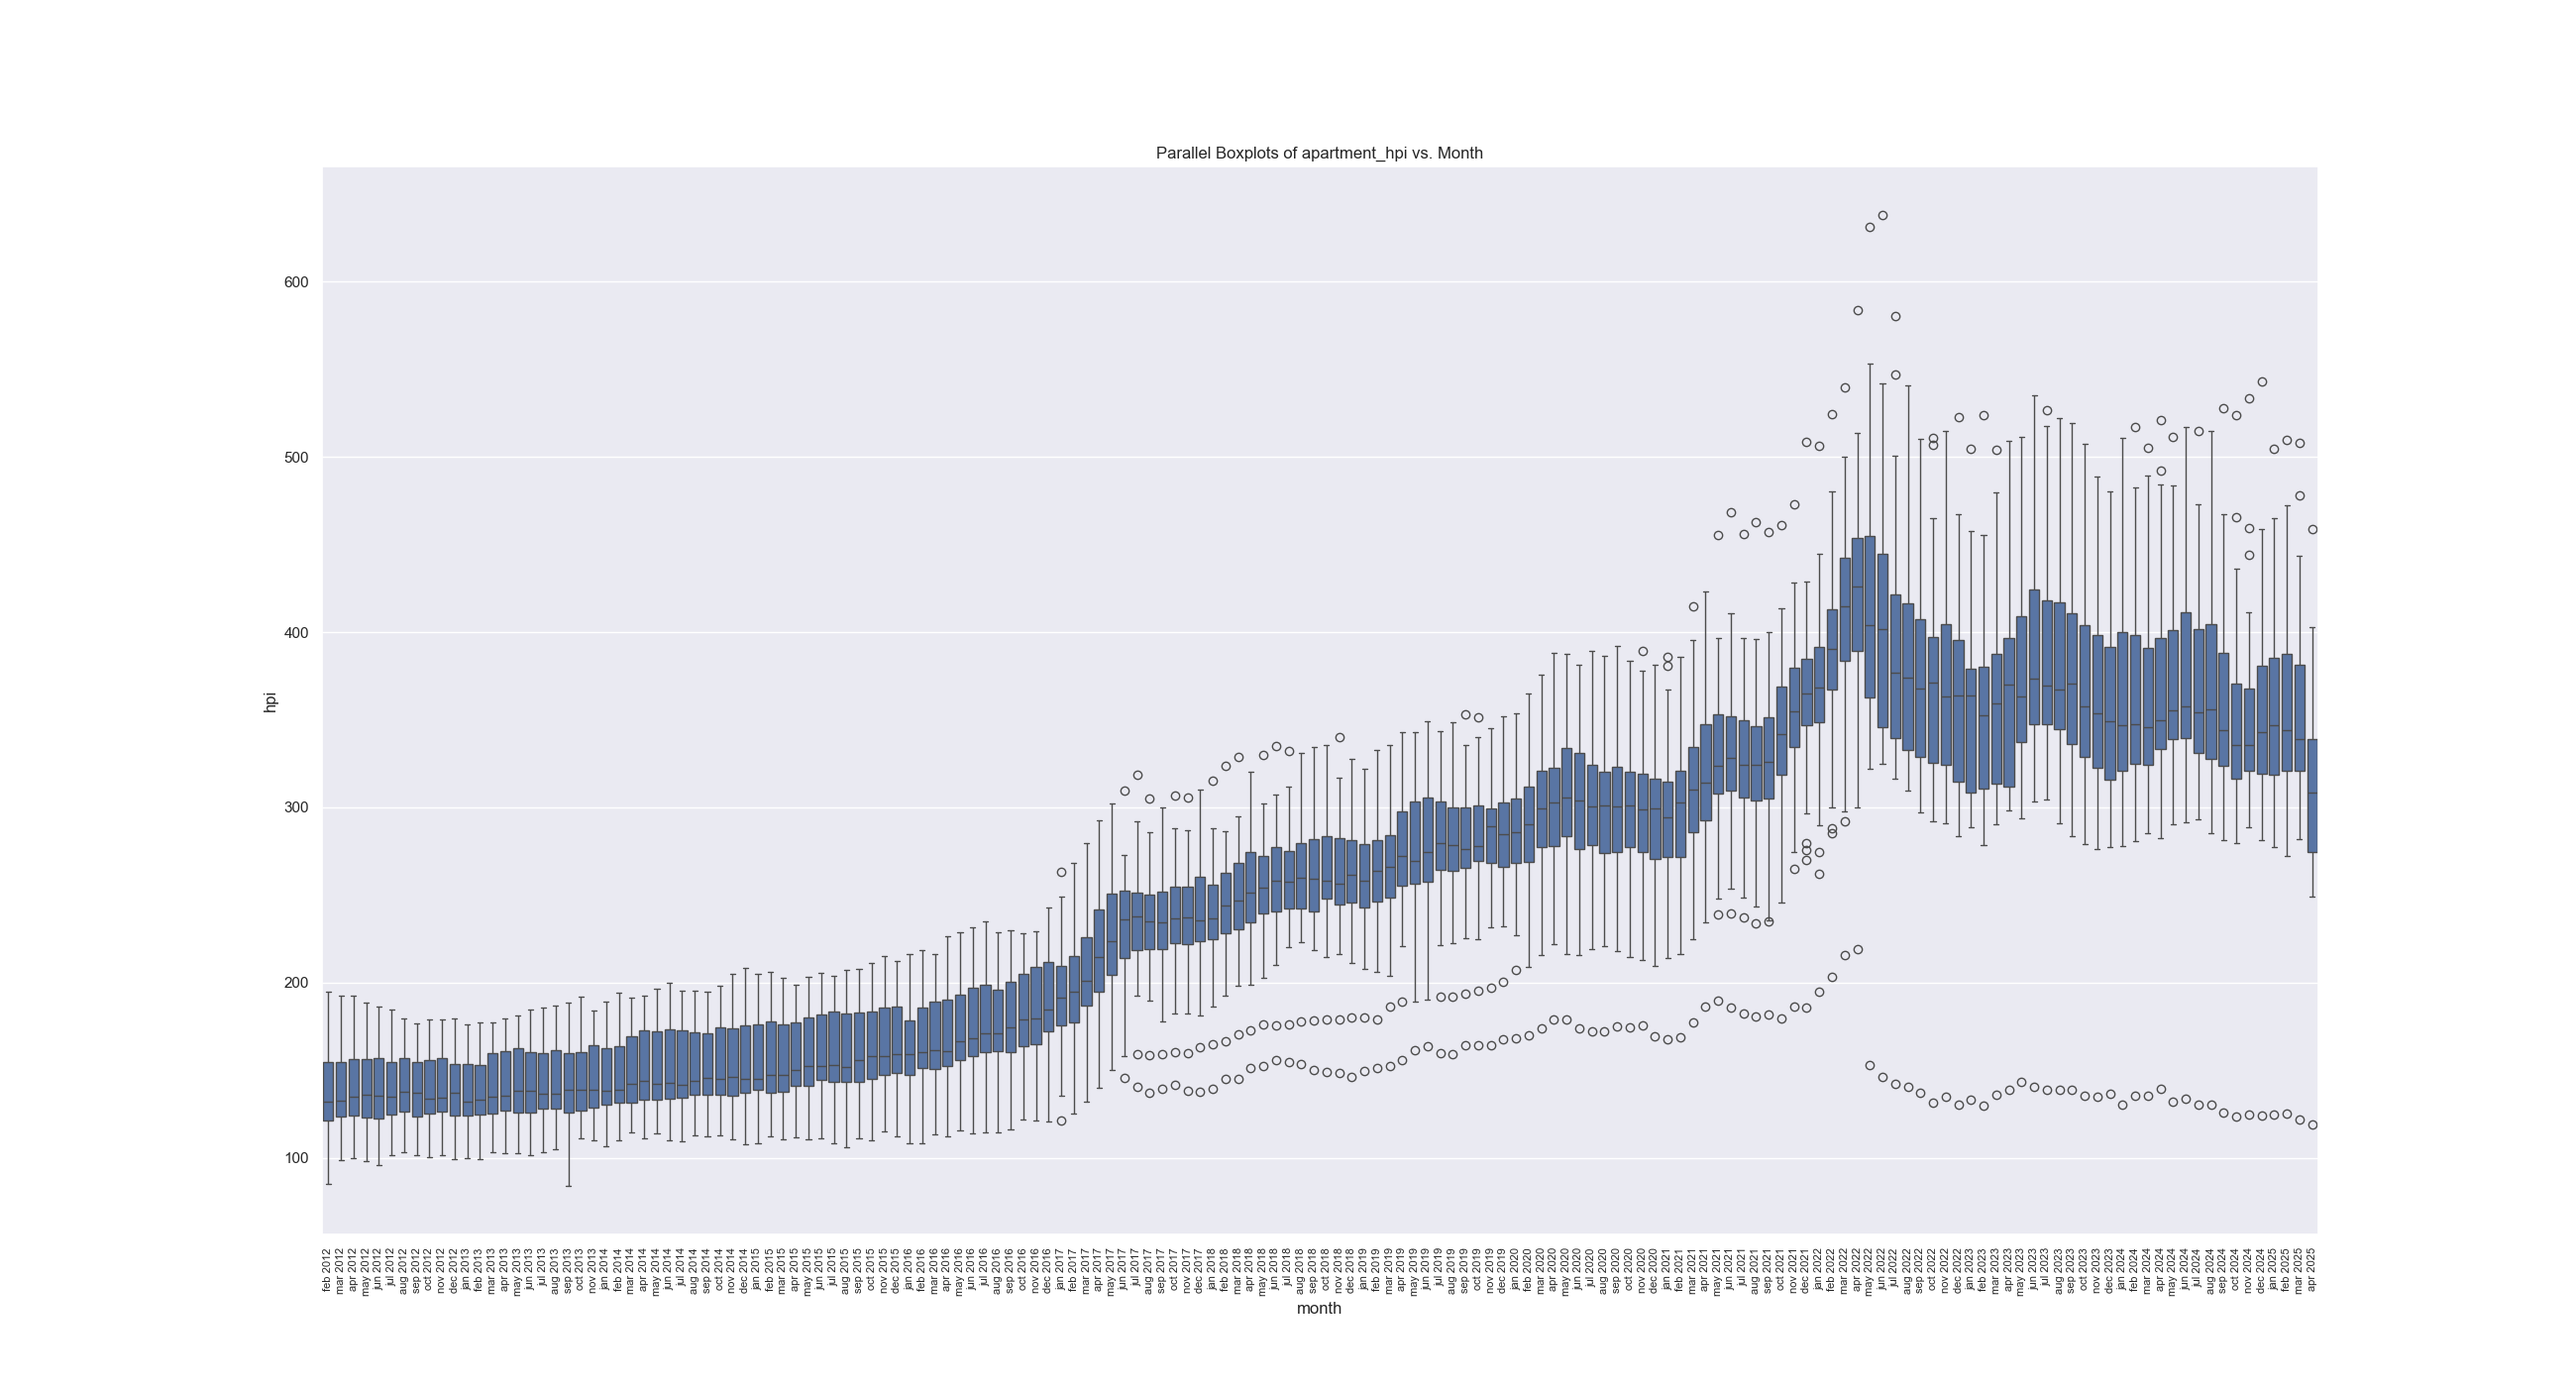
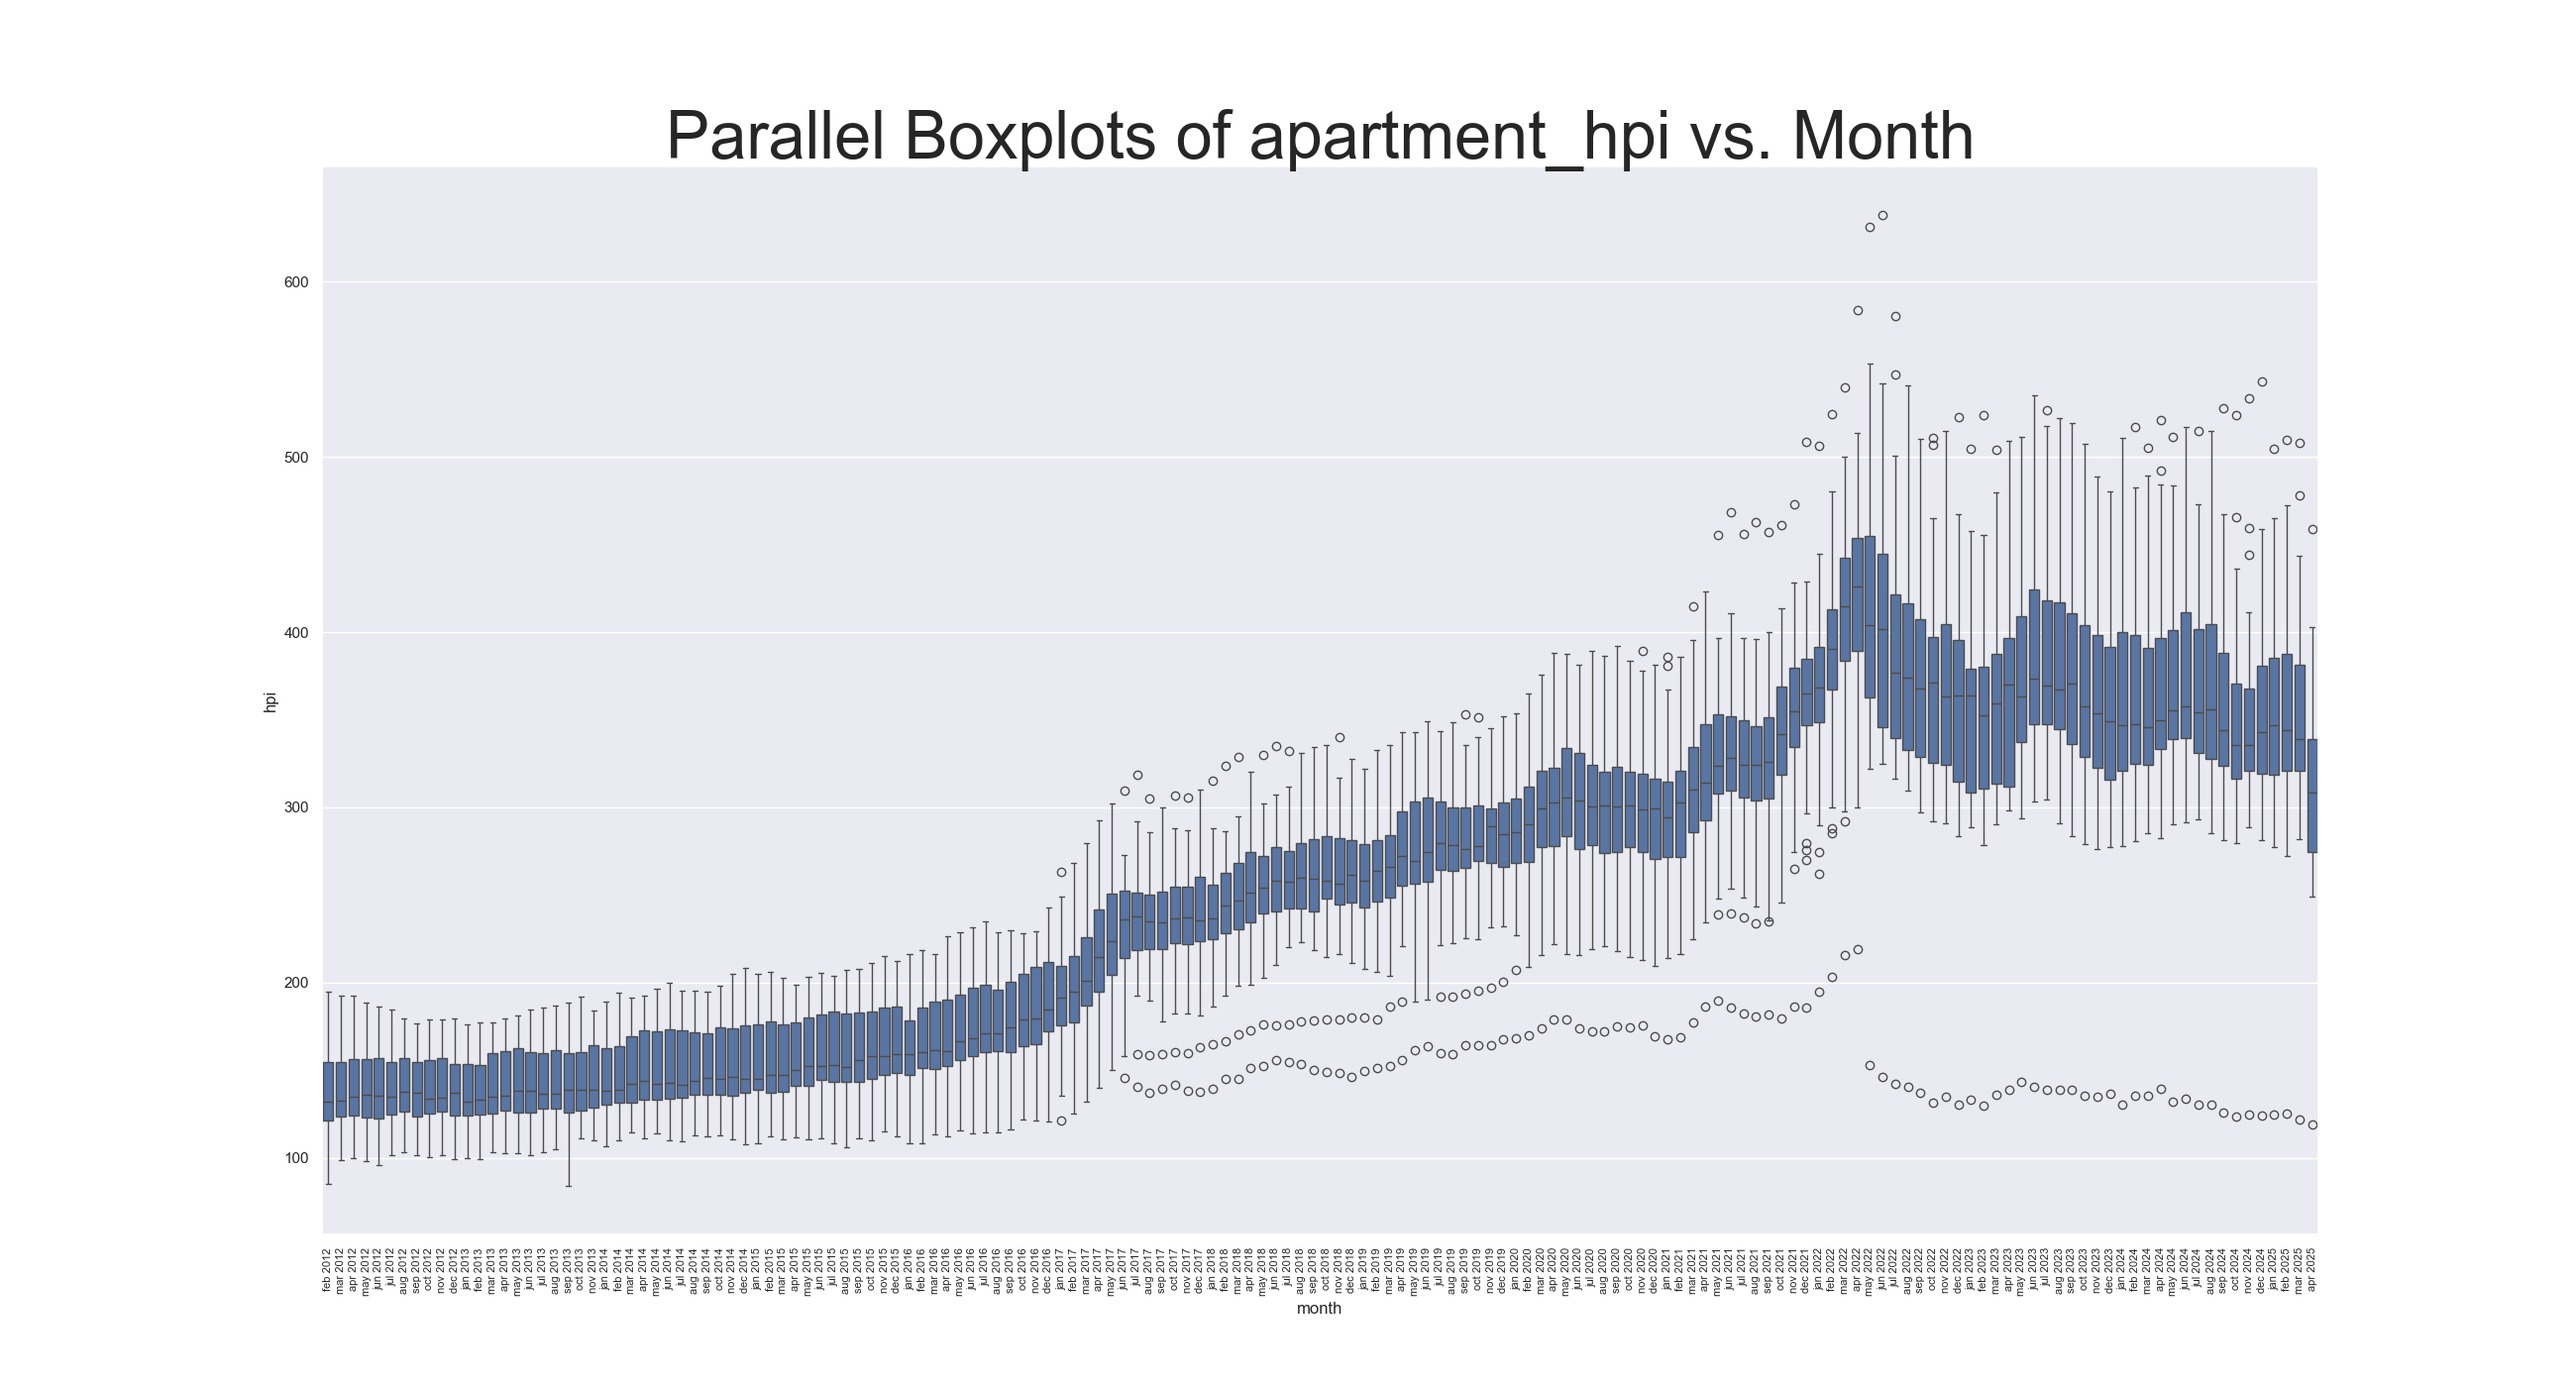
changes

Changed region(s): [[0.2492, 0.0614, 0.7788, 0.1229]]

diff --git a/src/analysis/display/plots/scatterplot.py b/src/analysis/display/plots/scatterplot.py
@@ -1,6 +1,7 @@
 from pathlib import Path
 import pandas as pd 
 import seaborn as sns
+import scipy as sp
 import matplotlib.pyplot as plt
 from collections.abc import Sequence
 from display.plots.display import Display
@@ -100,11 +101,21 @@ class Scatterplot(Display):
 
         sns.set_theme()
         g = sns.lmplot(self._processed_data, x="hpi", y="counts", row="month", col="htype")
+
+        def annotate(data, **kwargs):
+            r, p = sp.stats.pearsonr(data['hpi'], data['counts'])
+            ax = plt.gca()
+            ax.text(.05, .8, 'r={:.2f}, p={:.2g}'.format(r, p),
+                    transform=ax.transAxes)
+            
+        g.map_dataframe(annotate)
+
         g.tight_layout()
 
         title = f"Relational Plot of HPI vs. Airbnb Listing Counts by Month and Housing Type"
         filepath = output_path / f"{title}.png"
-        g.figure.suptitle(title)
+        g.figure.subplots_adjust(top=0.95)
+        g.figure.suptitle(title, fontsize=48)
 
         plt.savefig(filepath)
 

diff --git a/src/analysis/display/plots/parallel_boxplot.py b/src/analysis/display/plots/parallel_boxplot.py
@@ -72,9 +72,8 @@ class ParallelBoxplot:
             fig: Figure = plt.pyplot.figure()
             axes = sns.boxplot(data=data, x="month", y="hpi")
             axes.tick_params(axis='x', rotation=90, labelsize=8)
-            axes.set_title(title)
+            axes.set_title(title, fontsize=48)
             fig.set_size_inches(26, 14)
-            # fig.subplots_adjust(left=0.05, right=0.95, top=0.9, bottom=0.1)
 
             plt.pyplot.savefig(filepath)
 

diff --git a/src/analysis/display/plots/histogram.py b/src/analysis/display/plots/histogram.py
@@ -62,7 +62,8 @@ class Histogram(Display):
 
         title = f"Distribution of HPI by Year and Housing Type"
         filepath = output_path / f"{title}.png"
-        g.figure.suptitle(title)
+        g.figure.subplots_adjust(top=0.95)
+        g.figure.suptitle(title, fontsize=48)
 
         plt.pyplot.savefig(filepath)
 
